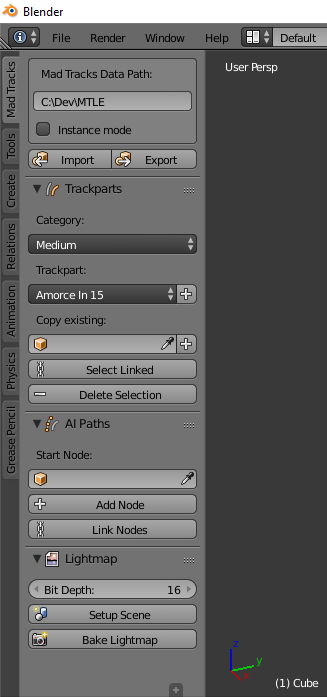
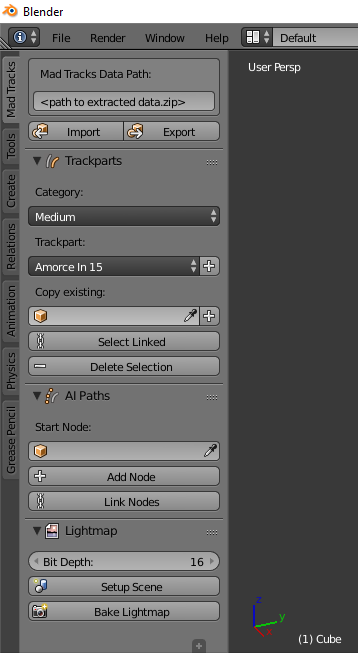
Document add-on import

diff --git a/io_madtracks/level_in.py b/io_madtracks/level_in.py
@@ -252,7 +252,7 @@ def is_lightmapped(lightmap, filename, props):
 
     # add universal prefix for lightmaps
     filename = "geometry/" + filename
-    print("Comparing LDO filename {} with LDL instance name {}...".format(filename.lower(), lightmap.current_name.lower()))
+    dprint("Comparing LDO filename {} with LDL instance name {}...".format(filename.lower(), lightmap.current_name.lower()))
     return lightmap.current_name.lower() == filename.lower() or lightmap.current_name.lower() == "geometry/rampe_30.ldo"
 
 

diff --git a/docs/ADDON_GUIDE.md b/docs/ADDON_GUIDE.md
@@ -1,18 +1,35 @@
 ## Main panel
 
 The main panel is accessible on the left of the 3D view in Object mode (hidden in Edit mode). All add-on features are regrouped here.  
-**Important tip**: keep your mouse on any UI field or button for tooltips. They are the most detailed and up to date add-on documentation.
+**Important tip**: keep your mouse on any UI field or button to get tooltips. They are the most detailed and up to date add-on documentation.
 
 ![Main Panel](../images/main_panel.png)
 
 From top to bottom:  
-**1. Import/Export subpanel** Operator buttons will open the file browser to import/export assets from/to the extracted data.zip file. The directory path pasted in this subpanel is used to automatically import other necessary files from this directory (like texture files if a model is imported).  
+**1. Import/Export subpanel** Operator buttons will open the file browser to import/export assets from/to the extracted data.zip file. The extracted gama data folder path pasted in this subpanel is needed to automatically import other necessary files from this directory (like texture files if a model is imported).  
 **2. Trackparts subpanel** Operator buttons will add/select/delete trackparts and help to organize level trackpart sequences in a way the game engine can understand.  
 **3. AI Paths subpanel** Operator buttons will add/link AI nodes and help to organize level AI paths in a way the game engine can understand.  
 **4. Lightmap subpanel** Operator buttons will destructively setup the scene for lightmap baking and allow to (re)generate a lightmap image applied to the scene for preview.
 
-## Tips when making a level
+## Importing game assets
 
-### Importing game assets
+When clicking on the "Import" button of the main panel, the file explorer opens to let you pick a file from the extracted game data folder (working outside of this folder is possible, but the operator will always look for other needed files in the game data folder).  
+When a file is selected, the file type and import options are displayed at the bottom of the left side bar. INI files are used for many types of game files, so the INI type to import needs to be set correctly in the options depending on the file selected.
 
-Coming soon
+![Import](../images/import.png)
+
+A list of supported files (some partially supported):  
+**.ldo (...\Gfx\models\Geometry)** A static game 3D model with materials  
+**.ini (...\Bin\Descriptors)** A game object descriptor, it can define a movable model, a light, a camera, pickup, game zone...  
+**.ini (...\Bin\Levels)** A list of static model and game object instances with positions and rotations that make up a level  
+**.dam (...\Bin\Levels)** Level settings for game rules, the world to use, intro/outro cameras and much more  
+**.gra (...\Bin\Levels)** A sequence of nodes and edges for AI navigation in a level  
+**.ldl (...\Gfx\Lightmaps)** A sequence of static models with UV coordinates of a level lightmap
+
+### Tips
+
+* Singular objects are imported in the scene at the 3D cursor position. You can right click on a surface in the 3D view to set the cursor position before importing. Otherwise you can press *Numpad .* after importing to focus on the asset and place it manually.
+
+* When importing a level, importing the .ini file will give you most of the level geometry, but it's sometimes necessary to also import the .dam file since the optional level skybox and world model are stored there.
+
+* The add-on has trouble importing multiple levels correctly in the same Blender session. It's better to open a new session instead of deleting the previous level from the scene

diff --git a/README.md b/README.md
@@ -14,6 +14,7 @@ Since Mad Tracks has been released on Steam, the game data files are located in 
 Import/Export:
 * LDO files
   * Import game models with materials
+  * Collision models are not supported
 * INI descriptor files
   * Import game objects (movable props, lights, force fields, game zones...)
   * Only lights can be exported for now
